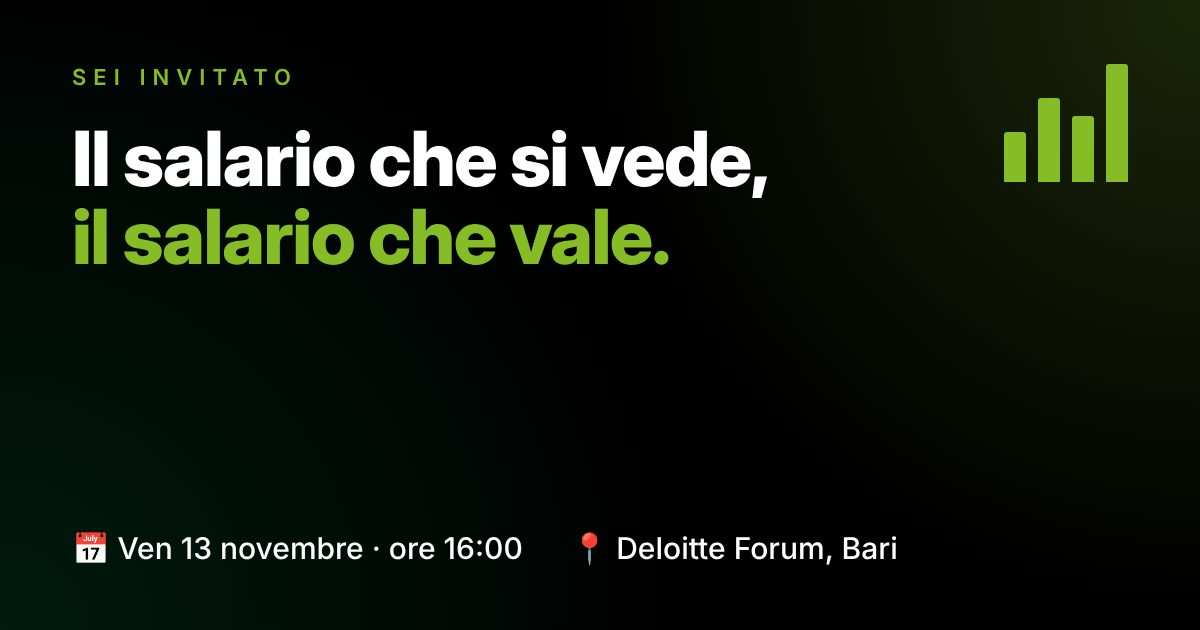
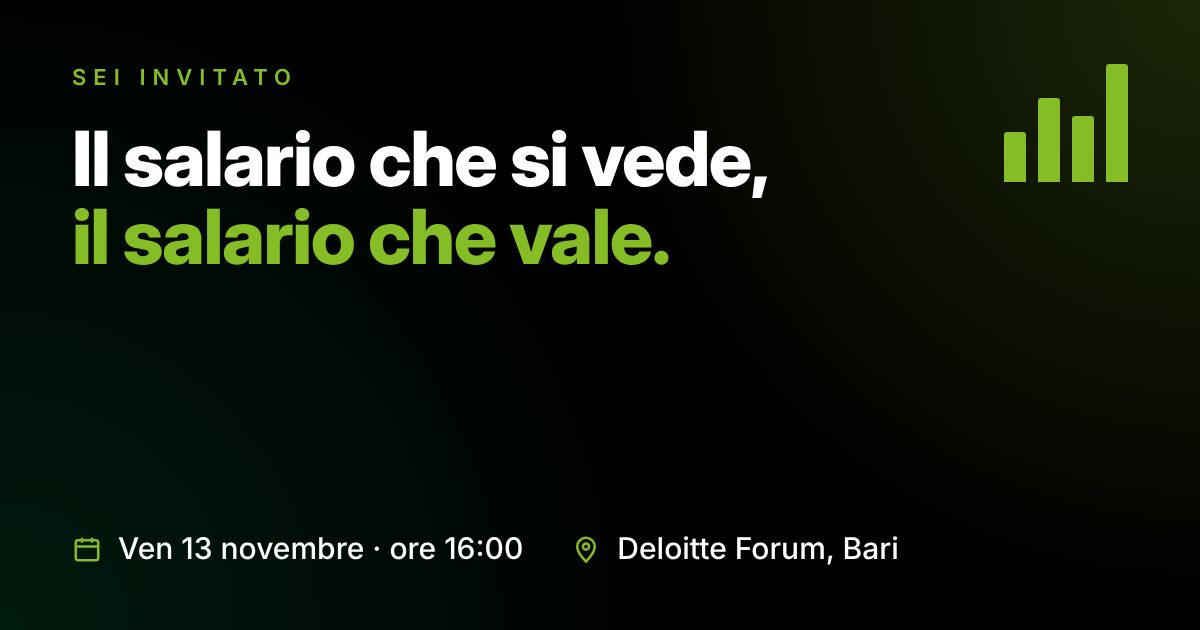
Icone SVG al posto delle emoji
Claude-Session: https://claude.ai/code/session_01DUn4jB6DCSCovnbFys9S8d

Changed region(s): [[0.4625, 0.8444, 0.74, 0.9048], [0.0617, 0.8444, 0.3083, 0.9048], [0.3392, 0.8444, 0.4317, 0.9048]]

diff --git a/index.html b/index.html
@@ -41,6 +41,7 @@ h1 em{font-style:normal;color:var(--gold)}
 .ic{width:46px;height:46px;border-radius:12px;background:#86BC251f;border:1px solid #86BC2566;display:flex;align-items:center;justify-content:center;flex:none}
 .actions{margin-top:30px;display:flex;flex-direction:column;gap:12px}
 .btn{display:flex;align-items:center;justify-content:center;gap:10px;padding:17px 20px;border-radius:14px;font-weight:600;font-size:16px;text-decoration:none;transition:transform .15s,opacity .15s}
+.btn .i{width:20px;height:20px;flex:none}
 .btn:active{transform:scale(.98)}
 .primary{background:var(--gold);color:var(--ink);font-weight:700;font-size:17px}
 .ghost{background:#ffffff0d;color:var(--cream);border:1px solid #ffffff26}
@@ -72,13 +73,13 @@ footer{text-align:center;font-size:12px;color:#75787B;margin-top:36px}
   </div>
 
   <div class="actions">
-    <a class="btn primary" href="https://forms.cloud.microsoft/pages/responsepage.aspx?id=BLBpMBdQG1MpvIfk1MIG7pUQURaQVIyWlVTTUhaVFRWTk5MVzA4NzM4RS4u&route=shorturl">✍ Registrati (obbligatorio)</a>
+    <a class="btn primary" href="https://forms.cloud.microsoft/pages/responsepage.aspx?id=BLBpMBdQG1MpvIfk1MIG7pUQURaQVIyWlVTTUhaVFRWTk5MVzA4NzM4RS4u&route=shorturl"><svg class="i" viewBox="0 0 24 24" fill="none" stroke="currentColor" stroke-width="1.8" stroke-linecap="round" stroke-linejoin="round" aria-hidden="true"><path d="M12 20h9"/><path d="M16.5 3.5a2.1 2.1 0 0 1 3 3L7 19l-4 1 1-4z"/></svg>Registrati (obbligatorio)</a>
 
     <div class="label">Aggiungi al calendario</div>
-    <a class="btn ghost" id="cal-auto" href="evento.ics">📅 Aggiungi al mio calendario</a>
-    <a class="btn ghost" href="evento.ics">🍏 iPhone / Apple Calendar</a>
-    <a class="btn ghost" href="https://calendar.google.com/calendar/render?action=TEMPLATE&text=Il+salario+che+si+vede%2C+il+salario+che+vale&dates=20261113T160000%2F20261113T180000&ctz=Europe%2FRome&location=Deloitte+Forum%2C+Via+Paolo+Pinto+2%2C+Bari&details=Trasparenza+retributiva%2C+parit%C3%A0+e+potere+d%27acquisto%3A+la+responsabilit%C3%A0+del+management.%0A%0AInvito%3A+https%3A%2F%2Fnotizieposts-web.github.io%2Fdeloitte-invitation%2F">🤖 Android / Google Calendar</a>
-    <a class="btn ghost" href="https://outlook.live.com/calendar/0/action/compose?subject=Il+salario+che+si+vede%2C+il+salario+che+vale&startdt=2026-11-13T16%3A00%3A00%2B01%3A00&enddt=2026-11-13T18%3A00%3A00%2B01%3A00&location=Deloitte+Forum%2C+Via+Paolo+Pinto+2%2C+Bari">📧 Outlook</a>
+    <a class="btn ghost" id="cal-auto" href="evento.ics"><svg class="i" viewBox="0 0 24 24" fill="none" stroke="currentColor" stroke-width="1.8" stroke-linecap="round" stroke-linejoin="round" aria-hidden="true"><rect x="3" y="5" width="18" height="16" rx="2"/><path d="M3 10h18M8 3v4M16 3v4M12 13v5M9.5 15.5h5"/></svg>Aggiungi al mio calendario</a>
+    <a class="btn ghost" href="evento.ics"><svg class="i" viewBox="0 0 24 24" fill="none" stroke="currentColor" stroke-width="1.8" stroke-linecap="round" stroke-linejoin="round" aria-hidden="true"><rect x="7" y="2.5" width="10" height="19" rx="2.5"/><path d="M11 18.5h2"/></svg>iPhone / Apple Calendar</a>
+    <a class="btn ghost" href="https://calendar.google.com/calendar/render?action=TEMPLATE&text=Il+salario+che+si+vede%2C+il+salario+che+vale&dates=20261113T160000%2F20261113T180000&ctz=Europe%2FRome&location=Deloitte+Forum%2C+Via+Paolo+Pinto+2%2C+Bari&details=Trasparenza+retributiva%2C+parit%C3%A0+e+potere+d%27acquisto%3A+la+responsabilit%C3%A0+del+management.%0A%0AInvito%3A+https%3A%2F%2Fnotizieposts-web.github.io%2Fdeloitte-invitation%2F"><svg class="i" viewBox="0 0 24 24" fill="none" stroke="currentColor" stroke-width="1.8" stroke-linecap="round" stroke-linejoin="round" aria-hidden="true"><rect x="5" y="9" width="14" height="10" rx="2"/><path d="M8 9a4 4 0 0 1 8 0M9 6 7.5 4M15 6l1.5-2M10 13h.01M14 13h.01"/></svg>Android / Google Calendar</a>
+    <a class="btn ghost" href="https://outlook.live.com/calendar/0/action/compose?subject=Il+salario+che+si+vede%2C+il+salario+che+vale&startdt=2026-11-13T16%3A00%3A00%2B01%3A00&enddt=2026-11-13T18%3A00%3A00%2B01%3A00&location=Deloitte+Forum%2C+Via+Paolo+Pinto+2%2C+Bari"><svg class="i" viewBox="0 0 24 24" fill="none" stroke="currentColor" stroke-width="1.8" stroke-linecap="round" stroke-linejoin="round" aria-hidden="true"><rect x="3" y="5" width="18" height="14" rx="2"/><path d="m3 7 9 6 9-6"/></svg>Outlook</a>
     <p class="hint">Se il link si apre dentro WhatsApp, tocca ⋯ e scegli "Apri nel browser".</p>
   </div>
 
